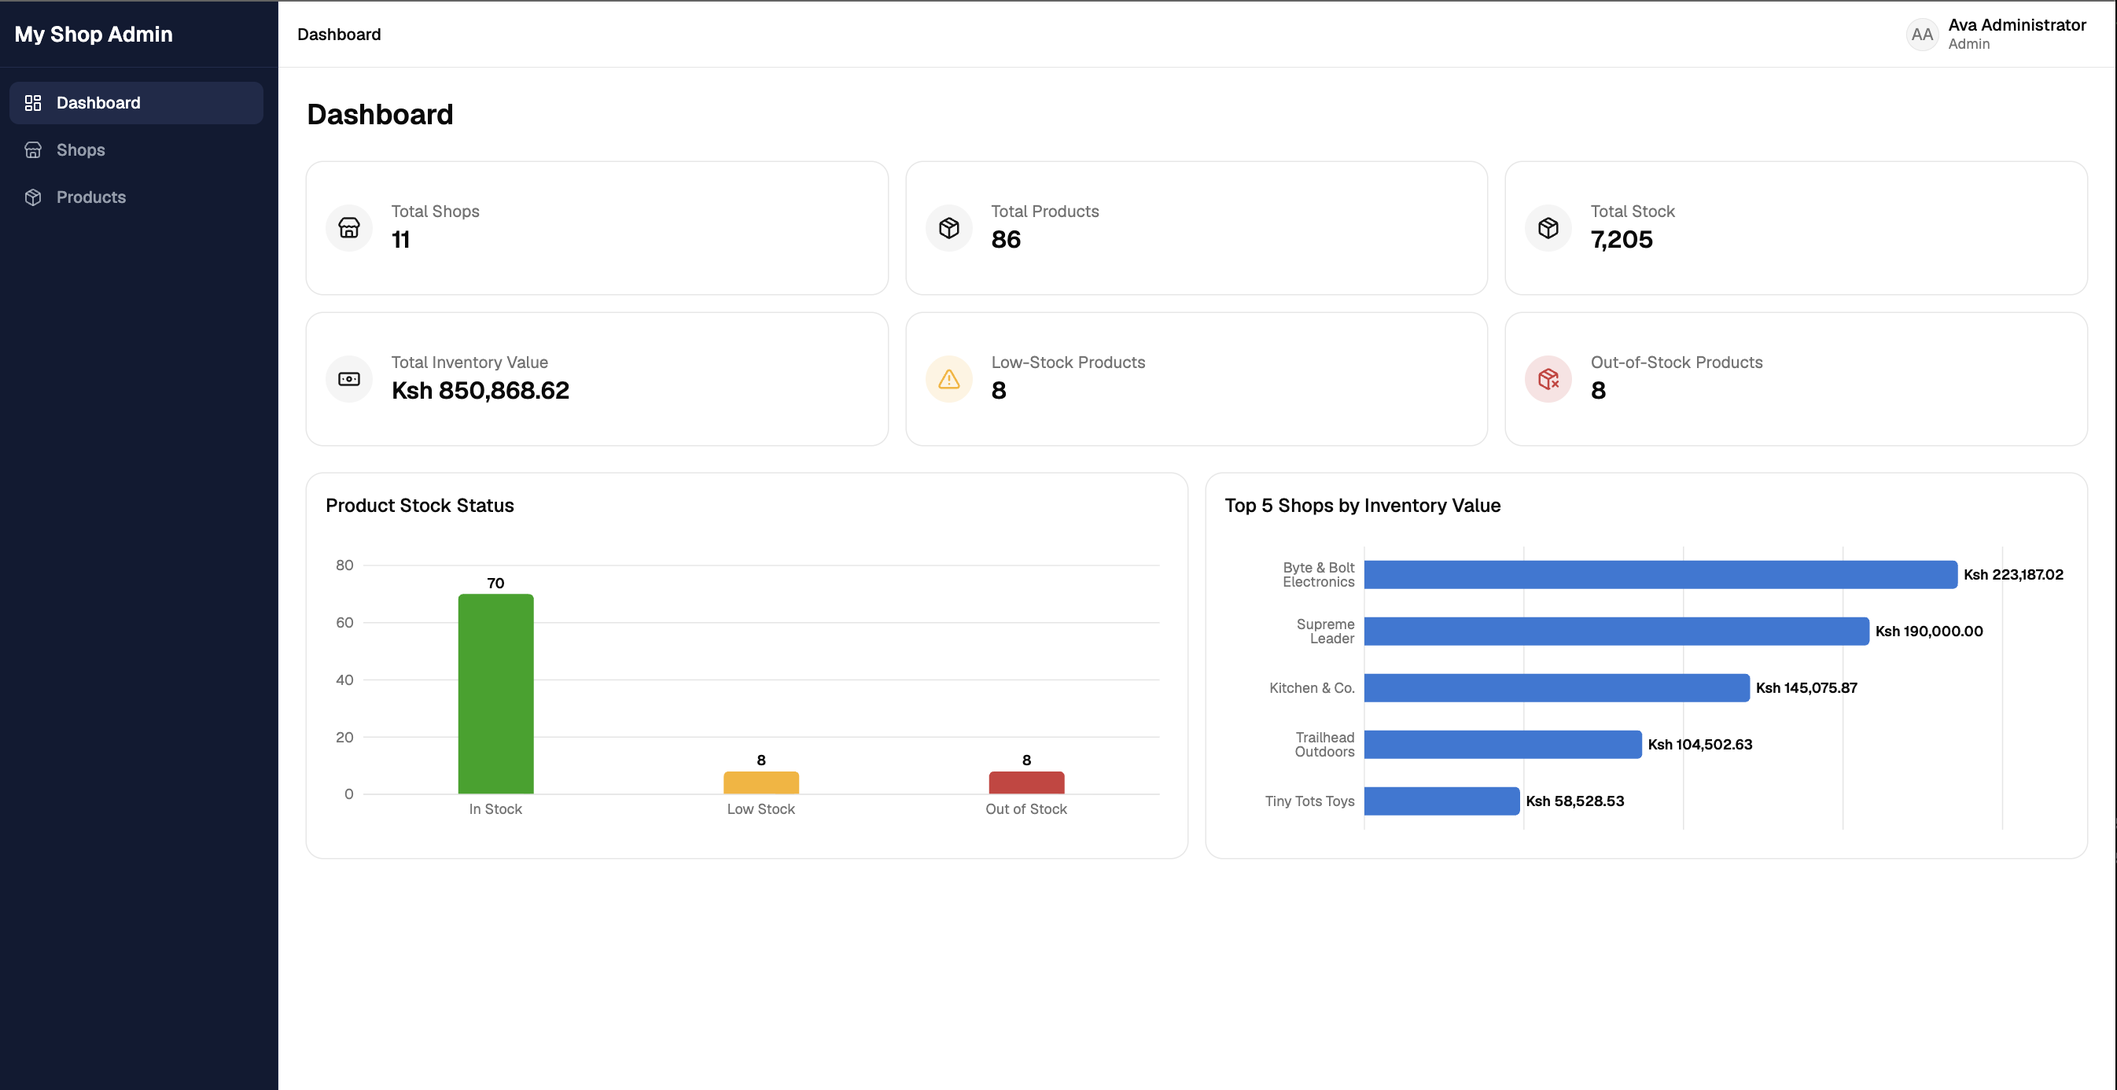
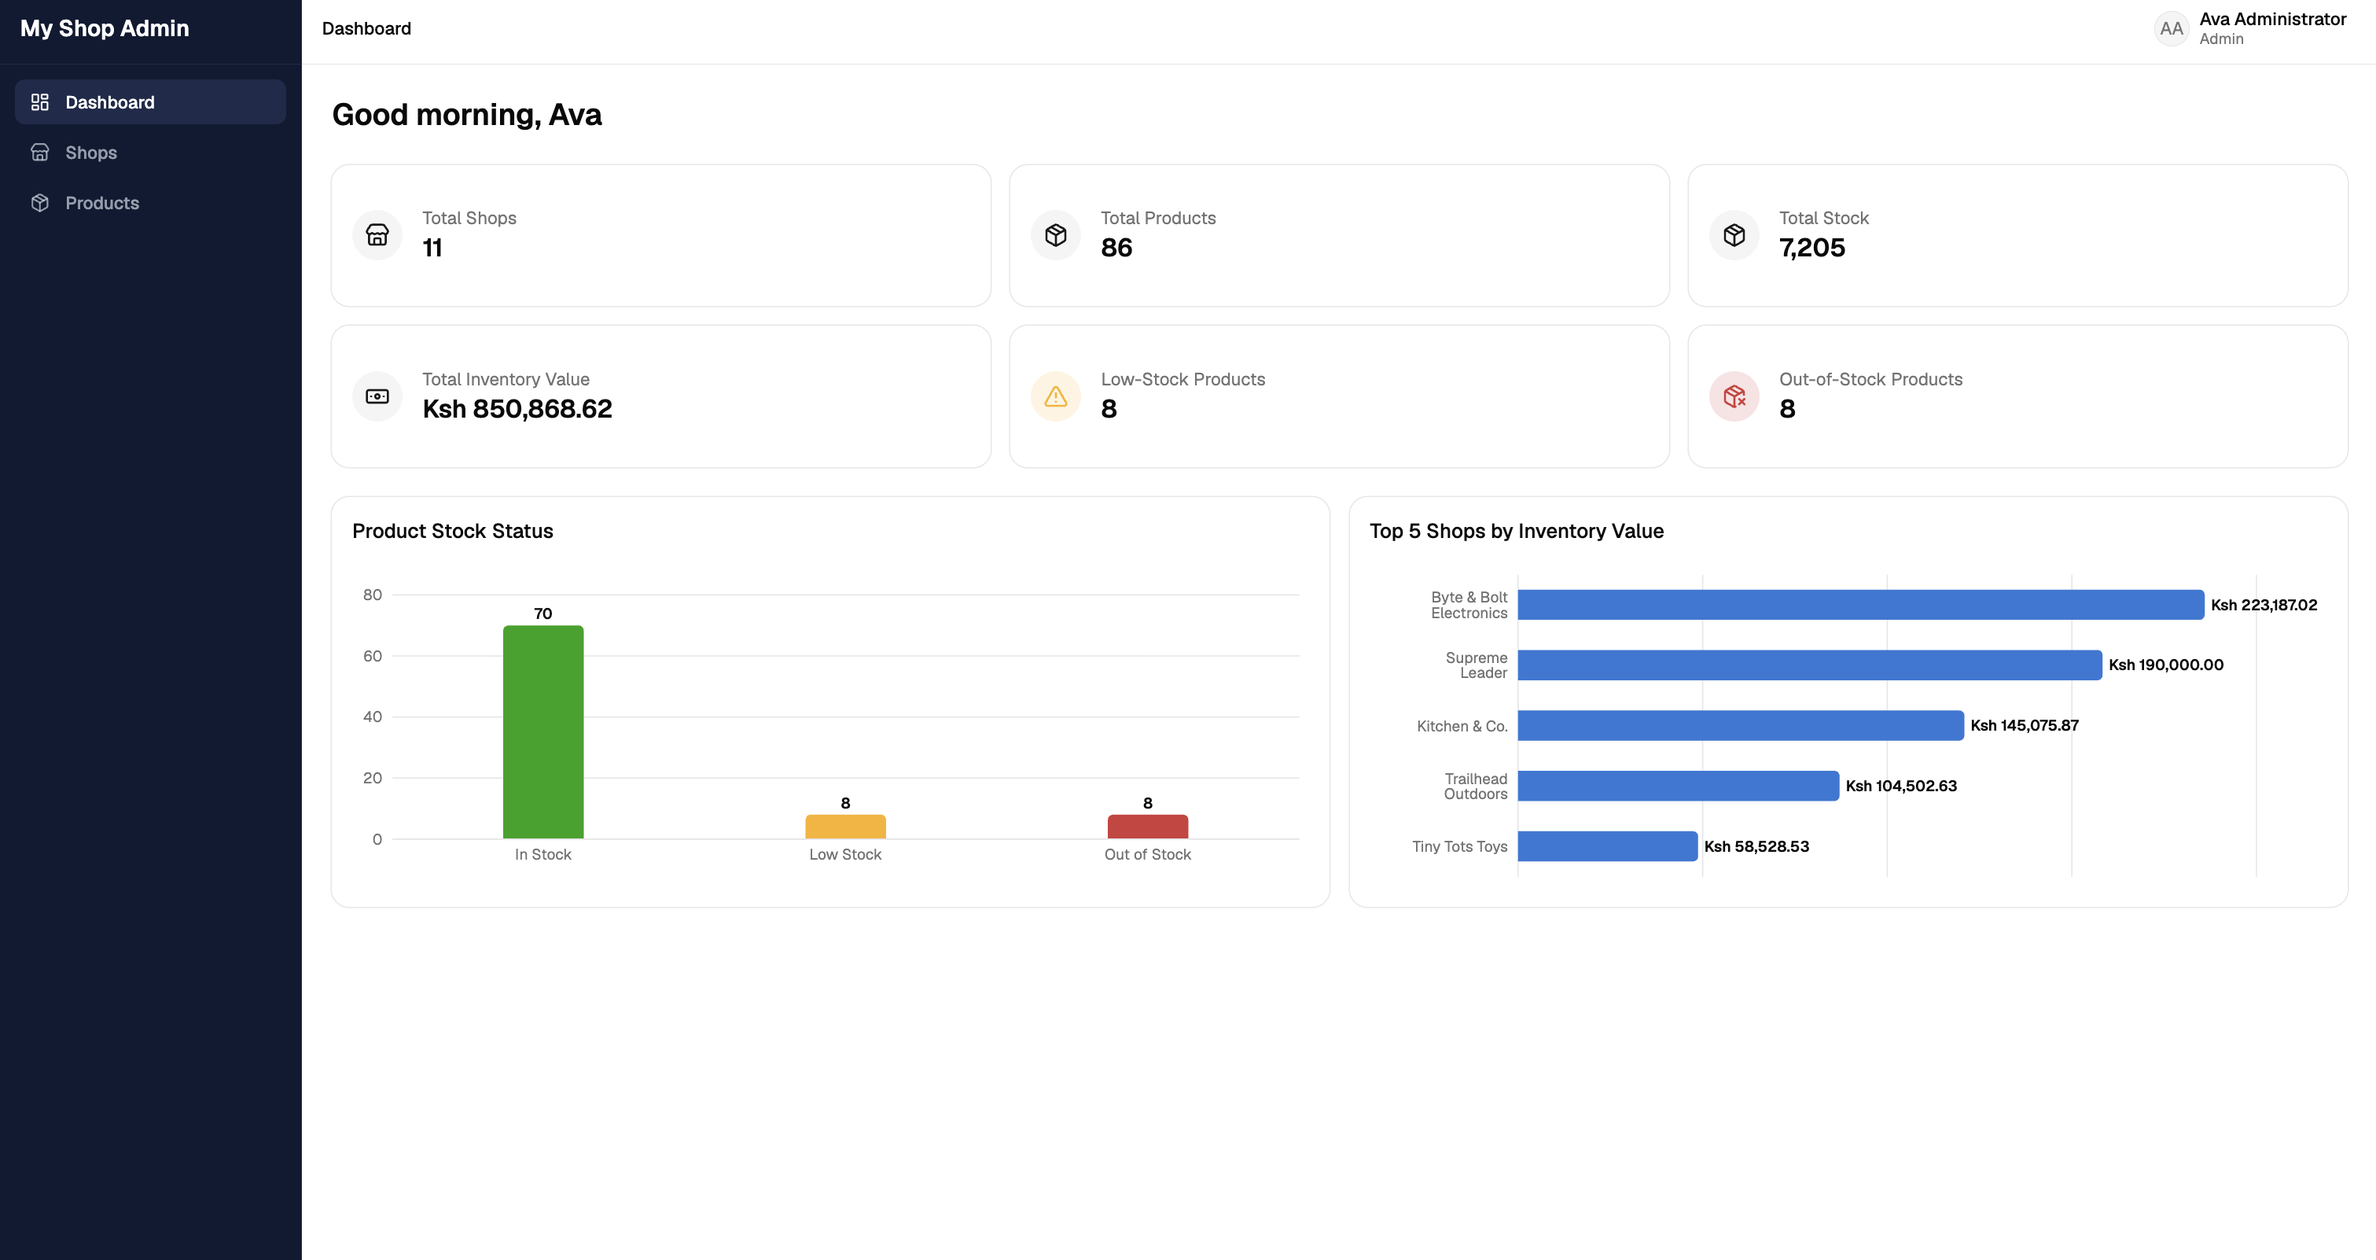
docs(readme): write full README and add dashboard greeting
- Replace the default Vite template README with full project docs:
  overview, tech stack, architecture, setup, mock API, demo
  credentials, key decisions/trade-offs, assumptions, known
  limitations, future improvements, and the production-auth write-up
- Remove the unused date-fns dependency (never actually called;
  formatDate uses Intl.DateTimeFormat directly)
- Add getGreeting (morning/afternoon/evening by hour) and use it for
  the dashboard heading, e.g. "Good morning, Ava", falling back to
  "Dashboard" if no user is set
- Update login background screenshot asset

diff --git a/src/features/dashboard/DashboardPage.tsx b/src/features/dashboard/DashboardPage.tsx
@@ -6,16 +6,20 @@ import { Skeleton } from '@/components/ui/skeleton'
 import { StockStatusChart } from '@/features/dashboard/components/StockStatusChart'
 import { TopShopsChart } from '@/features/dashboard/components/TopShopsChart'
 import { useDashboard } from '@/features/dashboard/hooks'
+import { useAuthStore } from '@/features/auth/store'
+import { getGreeting } from '@/lib/greeting'
 import { formatCurrency, formatNumber } from '@/lib/utils'
 
 export function DashboardPage() {
   const { isLoading, isError, error, isEmpty, refetch, summary, stockStatusCounts, topShops } =
     useDashboard()
+  const firstName = useAuthStore((s) => s.user?.name.split(' ')[0])
+  const greeting = firstName ? `${getGreeting()}, ${firstName}` : 'Dashboard'
 
   if (isError) {
     return (
       <div className="space-y-4">
-        <h1 className="text-2xl font-semibold">Dashboard</h1>
+        <h1 className="text-2xl font-semibold">{greeting}</h1>
         <ErrorState message={error?.message} onRetry={refetch} />
       </div>
     )
@@ -24,7 +28,7 @@ export function DashboardPage() {
   if (isLoading) {
     return (
       <div className="space-y-6">
-        <h1 className="text-2xl font-semibold">Dashboard</h1>
+        <h1 className="text-2xl font-semibold">{greeting}</h1>
         <div className="grid grid-cols-1 gap-4 sm:grid-cols-2 lg:grid-cols-3">
           {Array.from({ length: 6 }).map((_, index) => (
             <Skeleton key={index} className="h-20 rounded-lg" />
@@ -41,7 +45,7 @@ export function DashboardPage() {
   if (isEmpty) {
     return (
       <div className="space-y-4">
-        <h1 className="text-2xl font-semibold">Dashboard</h1>
+        <h1 className="text-2xl font-semibold">{greeting}</h1>
         <EmptyState
           title="No data yet"
           message="Add a shop and some products to see dashboard insights here."
@@ -52,7 +56,7 @@ export function DashboardPage() {
 
   return (
     <div className="space-y-6">
-      <h1 className="text-2xl font-semibold">Dashboard</h1>
+      <h1 className="text-2xl font-semibold">{greeting}</h1>
 
       <div className="grid grid-cols-1 gap-4 sm:grid-cols-2 lg:grid-cols-3">
         <StatCard label="Total Shops" value={formatNumber(summary.totalShops)} icon={Store} />

diff --git a/src/lib/greeting.test.ts b/src/lib/greeting.test.ts
@@ -1,0 +1,16 @@
+import { describe, expect, it } from 'vitest'
+import { getGreeting } from '@/lib/greeting'
+
+describe('getGreeting', () => {
+  it('returns a morning greeting before noon', () => {
+    expect(getGreeting(new Date('2026-01-01T09:00:00'))).toBe('Good morning')
+  })
+
+  it('returns an afternoon greeting from noon until 6pm', () => {
+    expect(getGreeting(new Date('2026-01-01T13:00:00'))).toBe('Good afternoon')
+  })
+
+  it('returns an evening greeting from 6pm onward', () => {
+    expect(getGreeting(new Date('2026-01-01T20:00:00'))).toBe('Good evening')
+  })
+})

diff --git a/src/lib/greeting.ts b/src/lib/greeting.ts
@@ -1,0 +1,6 @@
+export function getGreeting(date: Date = new Date()): string {
+  const hour = date.getHours()
+  if (hour < 12) return 'Good morning'
+  if (hour < 18) return 'Good afternoon'
+  return 'Good evening'
+}

diff --git a/README.md b/README.md
@@ -1,75 +1,140 @@
-# React + TypeScript + Vite
+# My Shop Admin
 
-This template provides a minimal setup to get React working in Vite with HMR and some ESLint rules.
+A multi-shop e-commerce admin panel for managing shops, products, and inventory - built as a frontend developer assessment. Authorized users can create and manage shops and their products, monitor stock levels, adjust inventory with a full audit trail, and view dashboard insights, all gated by role (Administrator / Viewer).
 
-Currently, two official plugins are available:
+**Live demo:** https://my-shop-admin-six.vercel.app
+**Repo:** https://github.com/Munene-Kariuki/my-shop-admin
 
-- [@vitejs/plugin-react](https://github.com/vitejs/vite-plugin-react/blob/main/packages/plugin-react) uses [Oxc](https://oxc.rs)
-- [@vitejs/plugin-react-swc](https://github.com/vitejs/vite-plugin-react/blob/main/packages/plugin-react-swc) uses [SWC](https://swc.rs/)
+## Demo Login Credentials
 
-## React Compiler
+| Role | Email | Password |
+|---|---|---|
+| Administrator (full access) | `admin@myshop.test` | `password123` |
+| Viewer (read-only) | `viewer@myshop.test` | `password123` |
 
-The React Compiler is not enabled on this template because of its impact on dev & build performances. To add it, see [this documentation](https://react.dev/learn/react-compiler/installation).
+## Technologies Used
 
-## Expanding the ESLint configuration
+- **React 19 + TypeScript + Vite** — app shell and build tooling
+- **React Router 7** — client-side routing, nested layouts, route guards
+- **Tailwind CSS v4 + shadcn/ui (Radix primitives)** — accessible, unstyled-by-default UI components
+- **TanStack Query** — server-state cache, invalidation, optimistic updates, retry policy
+- **TanStack Table** (pinned to the stable **v8** line — see [Key Decisions](#key-technical-decisions--trade-offs)) — table headers/sorting, paired with server-side pagination
+- **React Hook Form + Zod** — form state and validation, schemas shared between create/edit forms
+- **Zustand** (with `persist`) — authenticated session state
+- **Recharts** — dashboard charts
+- **Mock Service Worker (MSW)** — the mock REST API (see [Mock API](#how-to-run-the-mock-api))
+- **sonner** — toast notifications for mutation success/failure
+- **Vitest + React Testing Library** — unit/integration tests
 
-If you are developing a production application, we recommend updating the configuration to enable type-aware lint rules:
-
-```js
-export default defineConfig([
-  globalIgnores(['dist']),
-  {
-    files: ['**/*.{ts,tsx}'],
-    extends: [
-      // Other configs...
-
-      // Remove tseslint.configs.recommended and replace with this
-      tseslint.configs.recommendedTypeChecked,
-      // Alternatively, use this for stricter rules
-      tseslint.configs.strictTypeChecked,
-      // Optionally, add this for stylistic rules
-      tseslint.configs.stylisticTypeChecked,
-
-      // Other configs...
-    ],
-    languageOptions: {
-      parserOptions: {
-        project: ['./tsconfig.node.json', './tsconfig.app.json'],
-        tsconfigRootDir: import.meta.dirname,
-      },
-      // other options...
-    },
-  },
-])
+## Architecture and Folder Structure
 
 ```
-
-You can also install [eslint-plugin-react-x](https://npmx.dev/package/eslint-plugin-react-x) and [eslint-plugin-react-dom](https://npmx.dev/package/eslint-plugin-react-dom) for React-specific lint rules:
-
-```js
-// eslint.config.js
-import reactX from 'eslint-plugin-react-x'
-import reactDom from 'eslint-plugin-react-dom'
-
-export default defineConfig([
-  globalIgnores(['dist']),
-  {
-    files: ['**/*.{ts,tsx}'],
-    extends: [
-      // Other configs...
-      // Enable lint rules for React
-      reactX.configs['recommended-typescript'],
-      // Enable lint rules for React DOM
-      reactDom.configs.recommended,
-    ],
-    languageOptions: {
-      parserOptions: {
-        project: ['./tsconfig.node.json', './tsconfig.app.json'],
-        tsconfigRootDir: import.meta.dirname,
-      },
-      // other options...
-    },
-  },
-])
-
+src/
+  app/                 # router, layout shell (sidebar/topbar/breadcrumbs), providers, error boundary
+  components/
+    ui/                # shadcn/ui generated primitives (button, dialog, table, select, ...)
+    common/            # app-wide reusable pieces: DataTable, EmptyState, ErrorState,
+                        # StatCard, ImageWithFallback, RoleGate, StockStatusBadge, ...
+  features/
+    auth/               # login, session store, route guards (ProtectedRoute/PublicOnlyRoute/RequireRole)
+    dashboard/          # dashboard page, charts, derived-summary hook
+    shops/              # shop list/details/create-edit pages, api.ts, hooks.ts, schema.ts, components/
+    products/           # product list/details/create-edit pages, inventory adjustment, same pattern
+    NotFoundPage.tsx
+  hooks/                # generic reusable hooks (useDebounce, useUrlState)
+  lib/                  # api client, query client/keys, formatting, zod helpers, status colors
+  mocks/                # the mock API: in-memory db, seed data, MSW request handlers
+  test/                 # test setup, shared render/query-client helpers, auth test helpers
+  types/                # domain types (Shop, Product, User, ...) and API request/response contracts
 ```
+
+Each feature folder follows the same layering, so any feature is a template for the next:
+
+- `api.ts` — the only place that calls `apiClient` for that feature (never called directly from components)
+- `hooks.ts` — TanStack Query hooks wrapping `api.ts` (queries + mutations, cache invalidation, toasts)
+- `schema.ts` — Zod schema + inferred form types, shared by create and edit
+- `<Feature>ListPage.tsx` / `<Feature>DetailsPage.tsx` / `<Feature>FormPage.tsx` — route-level pages
+- `components/` — pieces used only within that feature (e.g. `DeleteShopDialog`, `InventoryAdjustmentDialog`)
+
+## Setup Instructions
+
+**Requirements:** Node.js 20+ and npm.
+
+```bash
+git clone git@github.com:Munene-Kariuki/my-shop-admin.git
+cd my-shop-admin
+npm install
+```
+
+## Environment Variable Requirements
+
+**None.** There is no real backend — the "API" is Mock Service Worker running entirely in the browser (see below) — so there's no `.env` file, API URL, or secret to configure.
+
+## How to Run the Mock API
+
+There's nothing to start separately. MSW registers a service worker (`public/mockServiceWorker.js`) that intercepts `fetch` calls to `/api/*` and serves them from an in-memory database, seeded on first load and persisted to `localStorage` afterwards (so your data survives a refresh). This happens automatically in **every** environment — `npm run dev`, `npm run build && npm run preview`, and the deployed site — which is exactly why the deployed app keeps working with no separate server to host or keep alive.
+
+To reseed from scratch, clear the `my-shop-admin:db:v1` key from your browser's local storage (DevTools → Application → Local Storage) and reload.
+
+## How to Run the Application
+
+```bash
+npm run dev       # start the dev server (http://localhost:5173)
+npm run build      # type-check (tsc -b) and produce a production build in dist/
+npm run preview    # serve the production build locally
+```
+
+## How to Run the Tests
+
+```bash
+npm run test        # run the full suite once (Vitest)
+npm run test:watch  # watch mode
+npm run test:ui     # Vitest's browser UI
+npm run lint        # ESLint
+```
+
+The suite has **170+ tests** across the mock API handlers, hooks, and every page/dialog — including the specifically-required cases: login validation, protected-route redirects, product form validation, a shop and a product mutation, the shop delete-blocked-by-products rule, and filter/sort/pagination interactions.
+
+## Key Technical Decisions & Trade-offs
+
+- **MSW over JSON Server.** MSW runs in the browser via a service worker, so there's no second process/host to deploy or keep alive — the mock API deploys along with the static site itself, directly satisfying the requirement that the deployed app keep working without a locally-run API. The trade-off is writing request handlers by hand instead of getting them for free, which also meant hand-rolling query-param based filtering/sorting/pagination (in `src/mocks/utils.ts` and each handler) — but that mirrors what a real Express/Nest endpoint would do anyway.
+- **TanStack Table pinned to v8, not v9.** `@tanstack/react-table@9` (the version that resolves from `^9` today) ships a very different, sparsely-documented hook-factory API. The project pins the stable, extensively-documented v8 line instead, used only for header rendering/sorting (`manualSorting: true`) since pagination and filtering are server-driven.
+- **One optimistic update, not everywhere.** The stock-adjustment mutation optimistically patches the cached product's stock in `onMutate`, rolls back the exact snapshot in `onError`, and invalidates the broader lists/dashboard/history in `onSettled` (`src/features/products/hooks.ts`, `useAdjustInventory`). Other mutations (shop/product create-edit-delete) invalidate-and-refetch instead: they navigate away or show a full-page loading state on success anyway, so there's no perceptible win from patching the cache by hand, and it would mean keeping several list/detail caches in sync in more places than is worth the risk of getting one out of sync.
+- **Client-side RBAC, doubled up.** `RoleGate` hides/disables the triggering UI (buttons, links) and `RequireRole` additionally blocks direct navigation to admin-only routes by URL. Both are enforced entirely in the browser, which is acceptable for this assessment per its own instructions, but is not how this should work in production — see [Production Auth](#how-authentication-and-authorization-would-differ-in-production).
+- **Fixed product category list.** The mock API has no list categories endpoint, so the category filter/select uses a fixed constant (`src/features/products/constants.ts`) mirroring the categories the seed data was generated with, rather than deriving it from a paginated products response.
+- **A generated data-viz palette, not eyeballed colors.** The two dashboard charts use a fixed status palette (in-stock/low-stock/out-of-stock → good/warning/critical) and a single sequential hue for the magnitude comparison (top-5-shops), chosen for contrast and colorblind-safety rather than picked by eye — identity is also carried by icon/sign and axis labels, not color alone.
+
+## Assumptions Made
+
+- Only **Shop Name** is a required field on the shop form; Description, Logo URL, Contact Email, and Status are optional but validated (URL/email format) when a value is provided — matching the assessment's field list, which marks only the name as required.
+- SKU uniqueness is checked case-insensitively.
+- "Last Updated" on a product changes on any field edit **and** on a stock adjustment (both are meaningful updates to the record).
+- The stock-status thresholds (out-of-stock = 0, low-stock = 1–5, in-stock = 6+) are exactly as specified and centralized in one place (`getStockStatus` in `src/types/domain.ts`) rather than re-implemented per screen.
+
+## Known Limitations / Incomplete Requirements
+
+- **No production backend.** By design (see decisions above) — this needs a real API, real auth, and a real database before it could run as anything but a demo.
+- **Bundle size.** The production bundle is a single ~1MB (min) / ~300KB (gzip) chunk; a route-based code-splitting pass (lazy-loaded route elements per feature) would bring this down but wasn't done here to keep the router simple.
+- **Table density/page-size aren't user-configurable or persisted** (the Persisted table preferences bonus item) — page size is fixed at 10 everywhere.
+- **No Storybook, Docker setup, or CI workflow** — all listed as optional/bonus in the brief; skipped in favor of finishing the core requirements and this documentation properly.
+- **No E2E tests** (Playwright/Cypress) — the Vitest + React Testing Library suite covers the required scenarios at the unit/integration level instead.
+- **No dark mode toggle** — `next-themes` is present only because shadcn's `<Toaster>` component depends on it; there's no theme switcher UI.
+
+## Future Improvements
+
+- Route-based code splitting to shrink the initial bundle.
+- Bulk product actions and CSV export (both bonus items) on the product list.
+- Persist table page-size/density preferences (e.g. to `localStorage`) per view.
+- Skeleton loading states on the list pages' first paint (currently a loading spinner state in the table body; the dashboard and detail pages already use skeletons).
+- Optimistic updates for the shop/product delete actions (remove the row immediately, roll back on failure) now that the inventory-adjustment mutation has proven the pattern in this codebase.
+
+## How Authentication and Authorization Would Differ in Production
+
+This assessment's client-side-only auth is explicitly acceptable per the brief, but it is not secure and shouldn't be mistaken for a real auth system. In production:
+
+- **Sessions would be server-issued and verified server-side**, not a client-constructed, unsigned base64 payload (`src/mocks/auth.ts` — `issueToken`/`requireAuth` are mock-only stand-ins for this). A real backend would issue a signed JWT (or, better for a web admin panel, an **httpOnly, `Secure`, `SameSite` cookie** holding an opaque or signed session id) so the token is never readable/stealable via JavaScript (mitigating XSS token theft, which the current `localStorage`-persisted Zustand store is vulnerable to).
+- **Authorization would be re-checked on every request, server-side.** The mock API's `requireRole` checks are the right idea but currently trust a client-decoded payload; a real API must independently verify the caller's role from its own session/user store on every mutating endpoint — the frontend's `RoleGate`/`RequireRole` are a UX nicety, never the actual security boundary.
+- **Passwords would never be compared in plaintext or stored in a seed file.** A real system hashes passwords (bcrypt/argon2) server-side and never round-trips them to the client.
+- **Token refresh and expiry** would be handled with a short-lived access token plus a refresh flow, rather than a single 12-hour token with no renewal.
+- **CSRF protection** would be needed once sessions move to cookies (a double-submit token or `SameSite=Strict`/`Lax` cookies plus origin checks).
+- **Rate limiting and audit logging** on auth endpoints (login attempts, role changes) would sit on the server, not the client.
